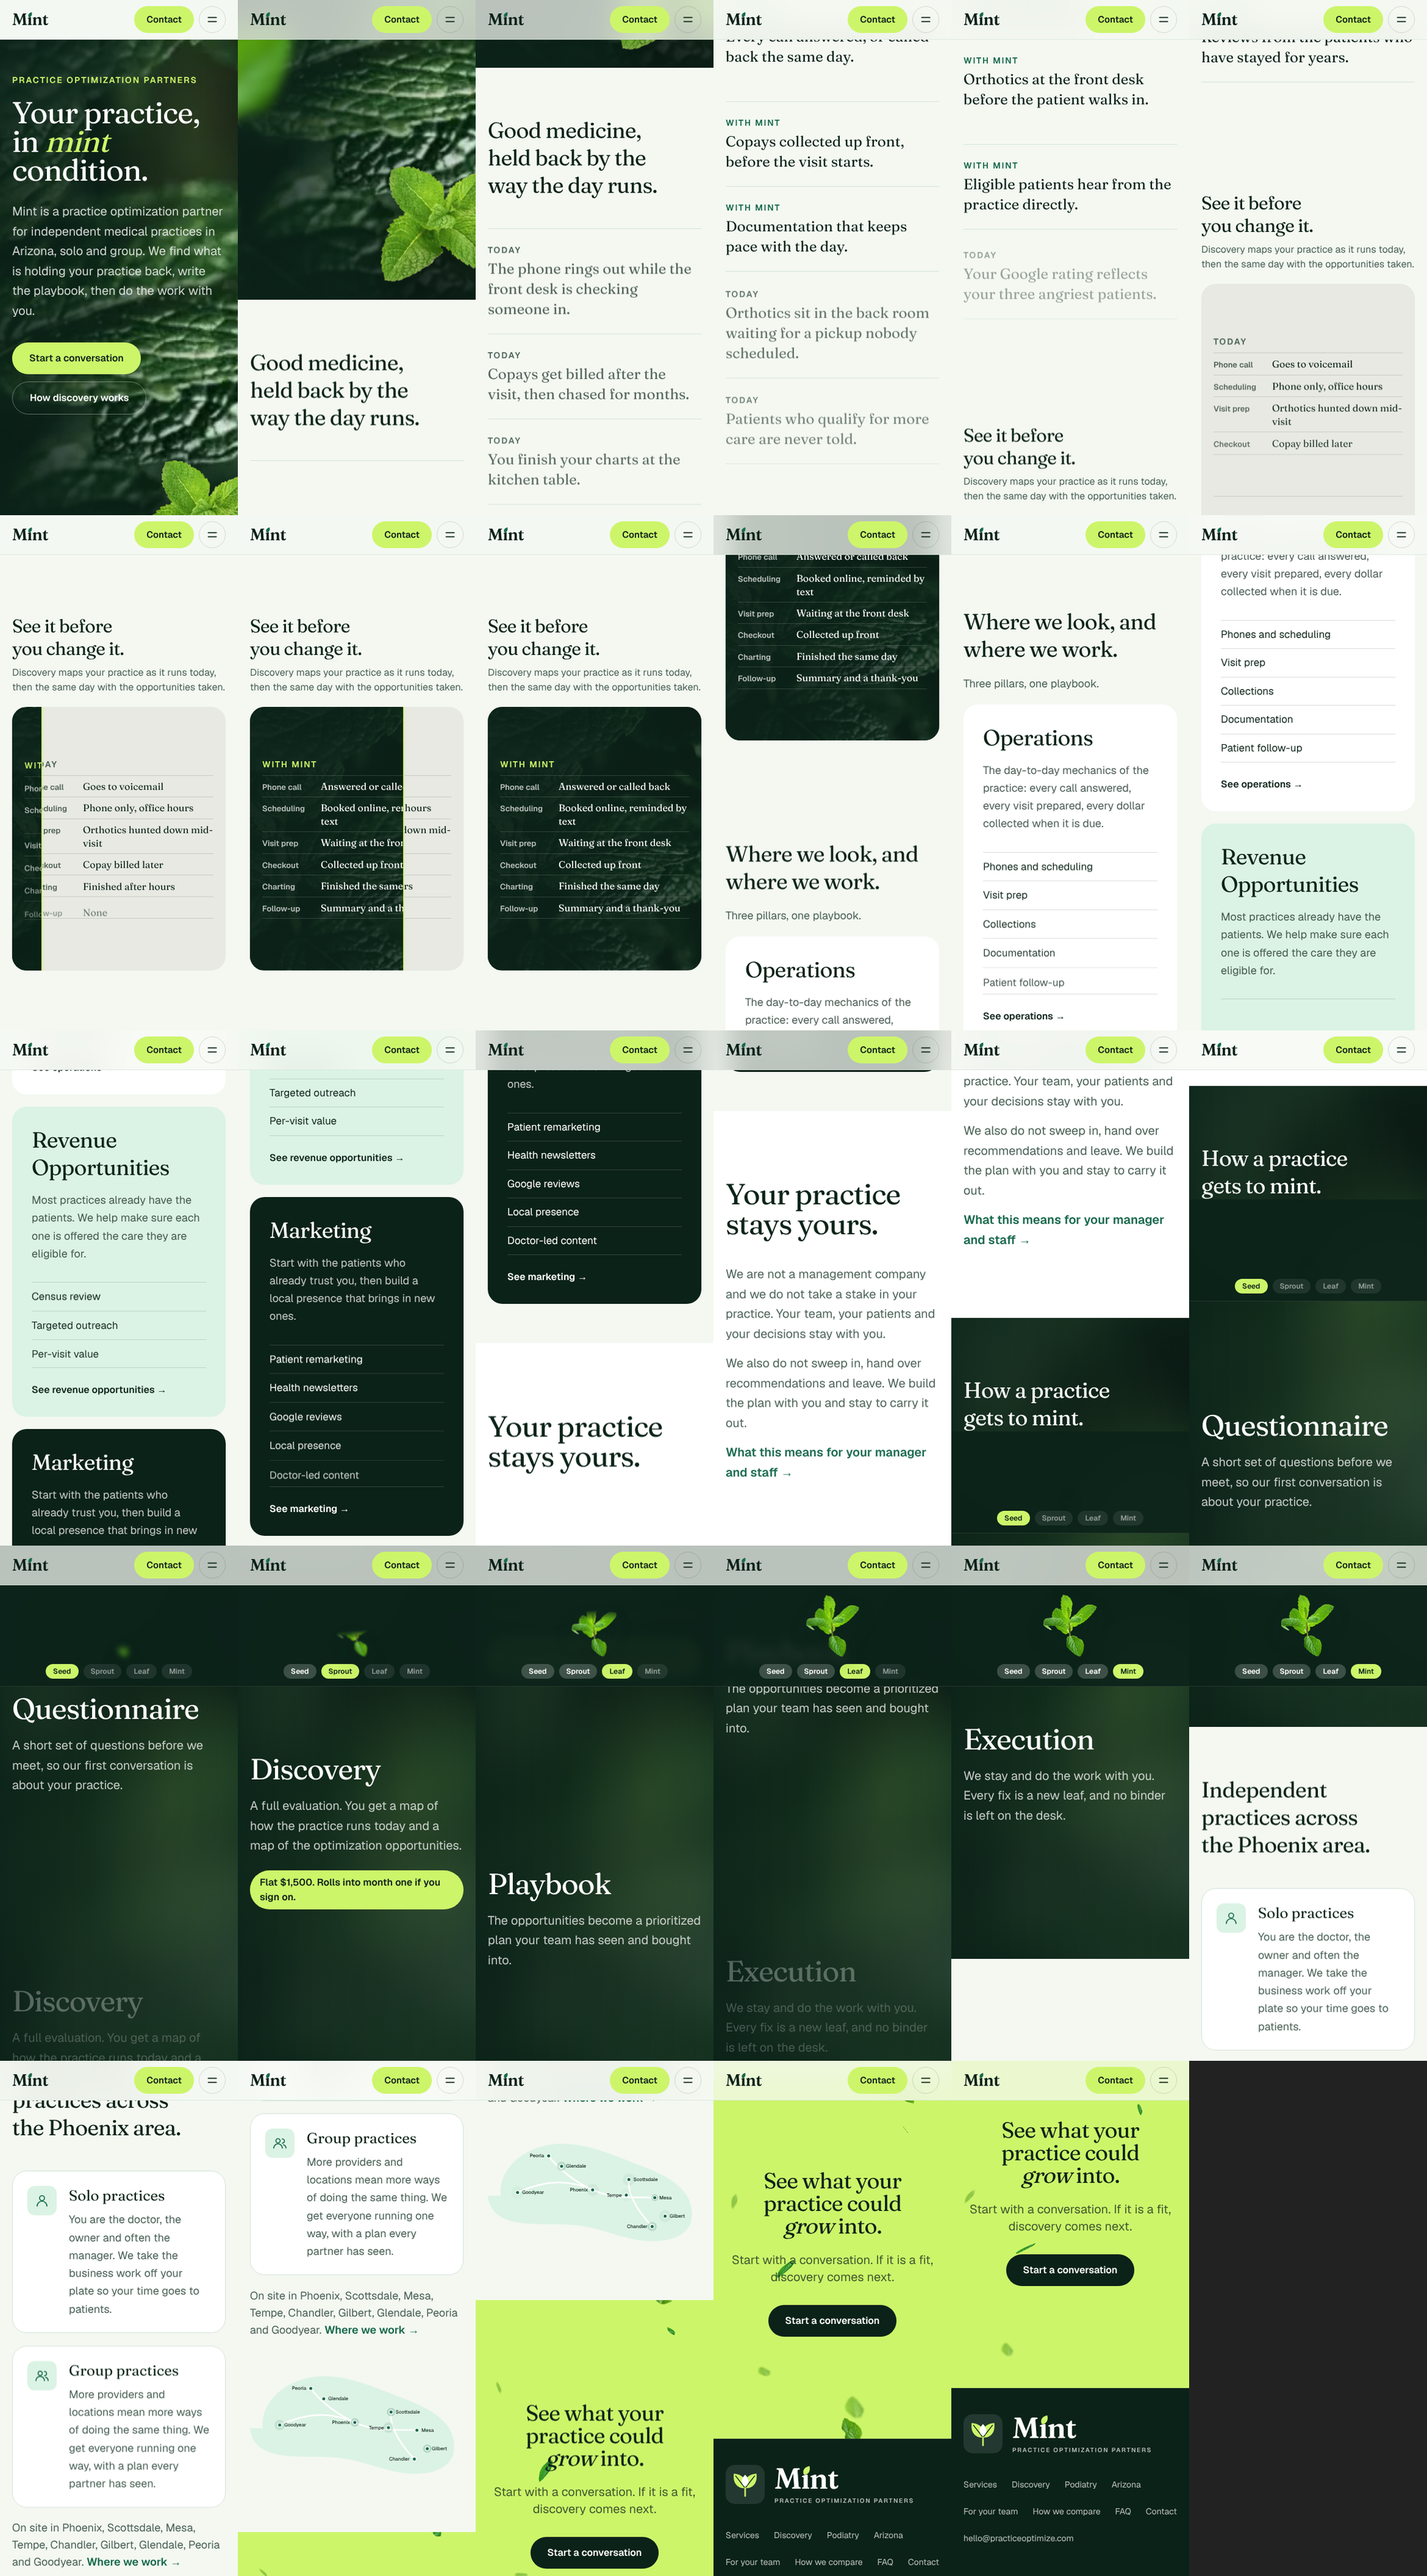
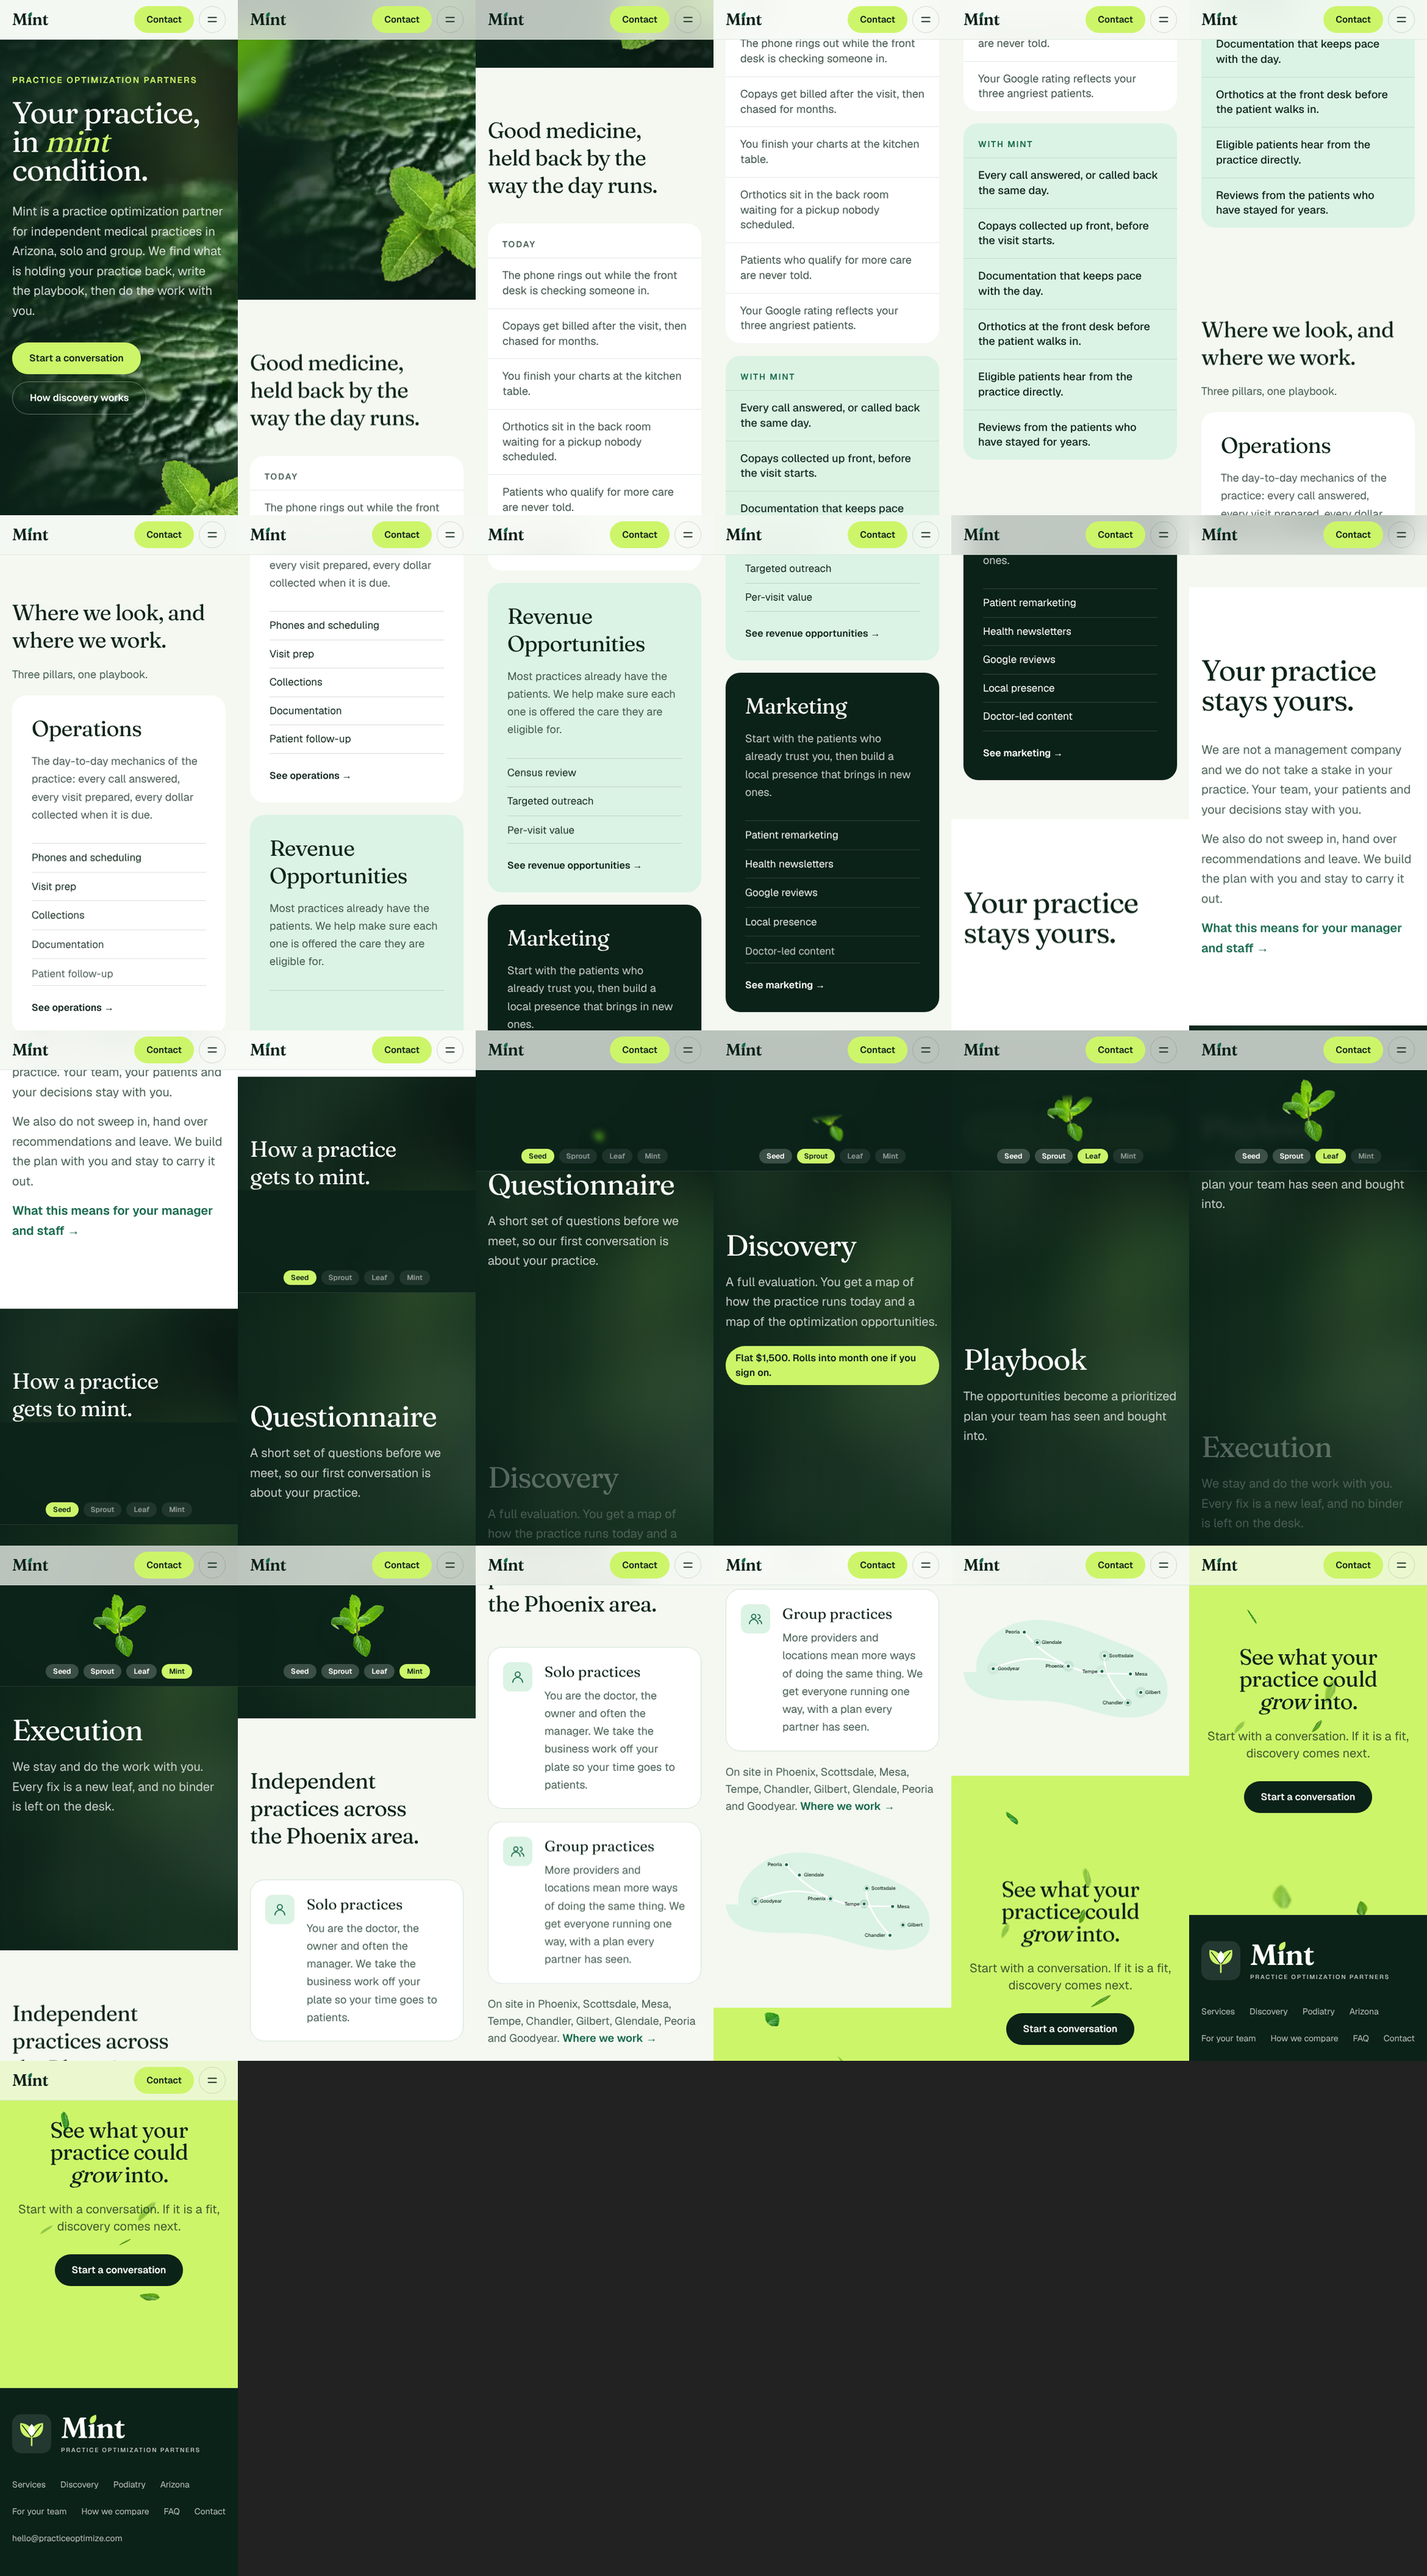
Remove the before-and-after wipe scene from the home page
The two tables below the hero already make the comparison.

Claude-Session: https://claude.ai/code/session_016i9iapxKng1zYPVoY6LXrL

diff --git a/components/scenes.tsx b/components/scenes.tsx
@@ -1,75 +1,6 @@
-import Image from "next/image";
 import Link from "next/link";
-import { journey } from "./graphics";
 import { Pinned } from "./Pinned";
-import { Container } from "./ui";
 import type { Pillar } from "@/lib/services";
-
-/**
- * The turn: one frame holding the practice's day twice. A line crosses it with
- * the scroll, and the yellowed day turns fresh behind the line.
- */
-export function BeforeAfterWipe() {
-  const layer = (kind: "today" | "mint") => (
-    <div
-      aria-hidden={kind === "mint" ? undefined : true}
-      className={`absolute inset-0 grid items-center gap-6 p-5 sm:p-10 lg:grid-cols-[1.25fr_1fr] ${
-        kind === "today" ? "bg-[#e7e9e2] text-ink" : "wipe-top bg-forest text-white"
-      }`}
-    >
-      {kind === "mint" && (
-        <>
-          <Image src="/photos/mint-dark.webp" alt="" fill sizes="100vw" className="object-cover opacity-45" />
-          <div className="absolute inset-0 bg-[linear-gradient(100deg,rgba(11,34,25,0.9)_30%,rgba(11,34,25,0.35))]" />
-        </>
-      )}
-      <div className="relative">
-        <p className={`text-sm font-semibold tracking-[0.14em] uppercase ${kind === "today" ? "text-muted" : "text-lime"}`}>
-          {kind === "today" ? "Today" : "With Mint"}
-        </p>
-        <dl className="mt-2 divide-y divide-current/15 border-y border-current/15 sm:mt-4">
-          {journey.map((row) => (
-            <div key={row.step} className="grid grid-cols-[5.25rem_1fr] items-baseline gap-3 py-1.5 sm:grid-cols-[9rem_1fr] sm:gap-4 sm:py-3">
-              <dt className="text-[13px] font-semibold opacity-70 sm:text-base">{row.step}</dt>
-              <dd className="font-display text-base leading-snug sm:text-2xl">{kind === "today" ? row.today : row.mint}</dd>
-            </div>
-          ))}
-        </dl>
-      </div>
-      <div className="relative hidden justify-center lg:flex">
-        <Image
-          src="/photos/mint-crown.webp"
-          alt=""
-          width={510}
-          height={454}
-          sizes="30vw"
-          className={`h-auto w-[78%] drop-shadow-[0_30px_30px_rgba(0,0,0,0.35)] ${kind === "today" ? "wilted rotate-[-8deg] opacity-90" : ""}`}
-        />
-      </div>
-    </div>
-  );
-
-  return (
-    <Pinned vh={210} className="wipe">
-      <Container className="flex h-full flex-col justify-center py-6">
-        <div className="max-w-3xl">
-          <h2 className="font-display text-3xl leading-tight tracking-tight text-balance sm:text-6xl">
-            See it before you change it.
-          </h2>
-          <p className="mt-2 max-w-xl text-base text-muted sm:mt-4 sm:text-lg">
-            Discovery maps your practice as it runs today, then the same day with the
-            opportunities taken.
-          </p>
-        </div>
-        <div className="relative mt-5 h-[min(60svh,27rem)] overflow-hidden rounded-3xl sm:mt-7 sm:h-[min(60vh,30rem)]">
-          {layer("today")}
-          {layer("mint")}
-          <div aria-hidden="true" className="wipe-line absolute inset-y-0 w-0.5 bg-lime" />
-        </div>
-      </Container>
-    </Pinned>
-  );
-}
 
 /**
  * Range: on large screens the page turns sideways and the three pillars pass

diff --git a/app/page.tsx b/app/page.tsx
@@ -6,7 +6,7 @@ import { ValleyMap } from "@/components/graphics";
 import { GrowStory, type Stage } from "@/components/GrowStory";
 import { IconBadge, type IconName } from "@/components/icons";
 import { SymptomCards, type Symptom } from "@/components/SymptomCards";
-import { BeforeAfterWipe, PillarsPan } from "@/components/scenes";
+import { PillarsPan } from "@/components/scenes";
 import { ButtonLink, CallToAction, Container, Eyebrow } from "@/components/ui";
 import { cityNames, listNames } from "@/lib/cities";
 import { pillars } from "@/lib/services";
@@ -128,8 +128,6 @@ export default function Home() {
                     <SymptomCards items={symptoms} />
         </Container>
       </section>
-
-      <BeforeAfterWipe />
 
       <PillarsPan pillars={pillars} />
 

diff --git a/components/graphics.tsx b/components/graphics.tsx
@@ -3,7 +3,7 @@ import { cities } from "@/lib/cities";
 import { Icon, type IconName } from "./icons";
 import { LooseLeaf } from "./mint";
 
-export const journey: { icon: IconName; step: string; today: string; mint: string }[] = [
+const journey: { icon: IconName; step: string; today: string; mint: string }[] = [
   { icon: "phone", step: "Phone call", today: "Goes to voicemail", mint: "Answered or called back" },
   { icon: "calendar", step: "Scheduling", today: "Phone only, office hours", mint: "Booked online, reminded by text" },
   { icon: "box", step: "Visit prep", today: "Orthotics hunted down mid-visit", mint: "Waiting at the front desk" },

diff --git a/app/globals.css b/app/globals.css
@@ -225,18 +225,6 @@ body {
 
 /* ---------- Pinned scenes (driven by --p, 0 to 1) ---------- */
 
-/* The wipe: holds, crosses, holds. */
-.wipe {
-  --w: clamp(0, calc((var(--p) - 0.14) / 0.66), 1);
-}
-.wipe-top {
-  clip-path: inset(0 calc((1 - var(--w)) * 100%) 0 0);
-}
-.wipe-line {
-  left: calc(var(--w) * 100%);
-  opacity: clamp(0, calc(var(--w) * 20), 1);
-}
-
 /* The pan: the track slides until its last panel reaches the right margin. */
 @media (min-width: 1024px) {
   .pan {

diff --git a/scrollcraft/builds/mint-home/BRIEF.md b/scrollcraft/builds/mint-home/BRIEF.md
@@ -62,7 +62,6 @@ remains the doctor's own.
 | --- | --- | --- |
 | Hero | Calm confidence | A sharp sprig against deep, soft foliage; layers drift apart as the page moves |
 | The day | Recognition turning to unease | Plain statements of the visitor's own problems, one after another |
-| The wipe | Relief | A line crosses the frame and the yellowed day turns fresh behind it |
 | Pillars | Clarity | The page turns sideways: three panels pass like options on a shelf |
 | Yours | Reassurance | The page goes still; one sentence over dark leaves |
 | Growth (peak) | Momentum, a little wonder | The plant rises and comes into focus under the visitor's own scroll |
@@ -99,12 +98,11 @@ near the lens to the plant, so the foreground softens as the subject sharpens.
 | Beat | Device | Why |
 | --- | --- | --- |
 | Recognition | Layered parallax, pinned | Depth is the strongest signal that this is a photograph |
-| Tension | Kinetic list | Each line resolves as it passes the reading line; the visitor does the fixing |
-| Turn | Reveal (wipe) | A wipe is a change of state, which is what this beat is |
+| Tension and turn | Two static tables | Client direction: keep it simple. Today beside With Mint, no interaction |
 | Range | Horizontal pan | Sideways travel reads as options |
 | Reassurance | Static band | The stillness is the point, and it sets up the peak |
 | Substance | Pin with scroll-driven growth and focus pull | The plant responds to the visitor's hand |
 | Ground | Static split | Information, plainly |
 | Commitment | Still band | The page stops and asks |
 
-Six device families, none twice in a row.
+Five device families, none twice in a row. The client removed the hover list and the wipe scene in favour of two plain tables.
